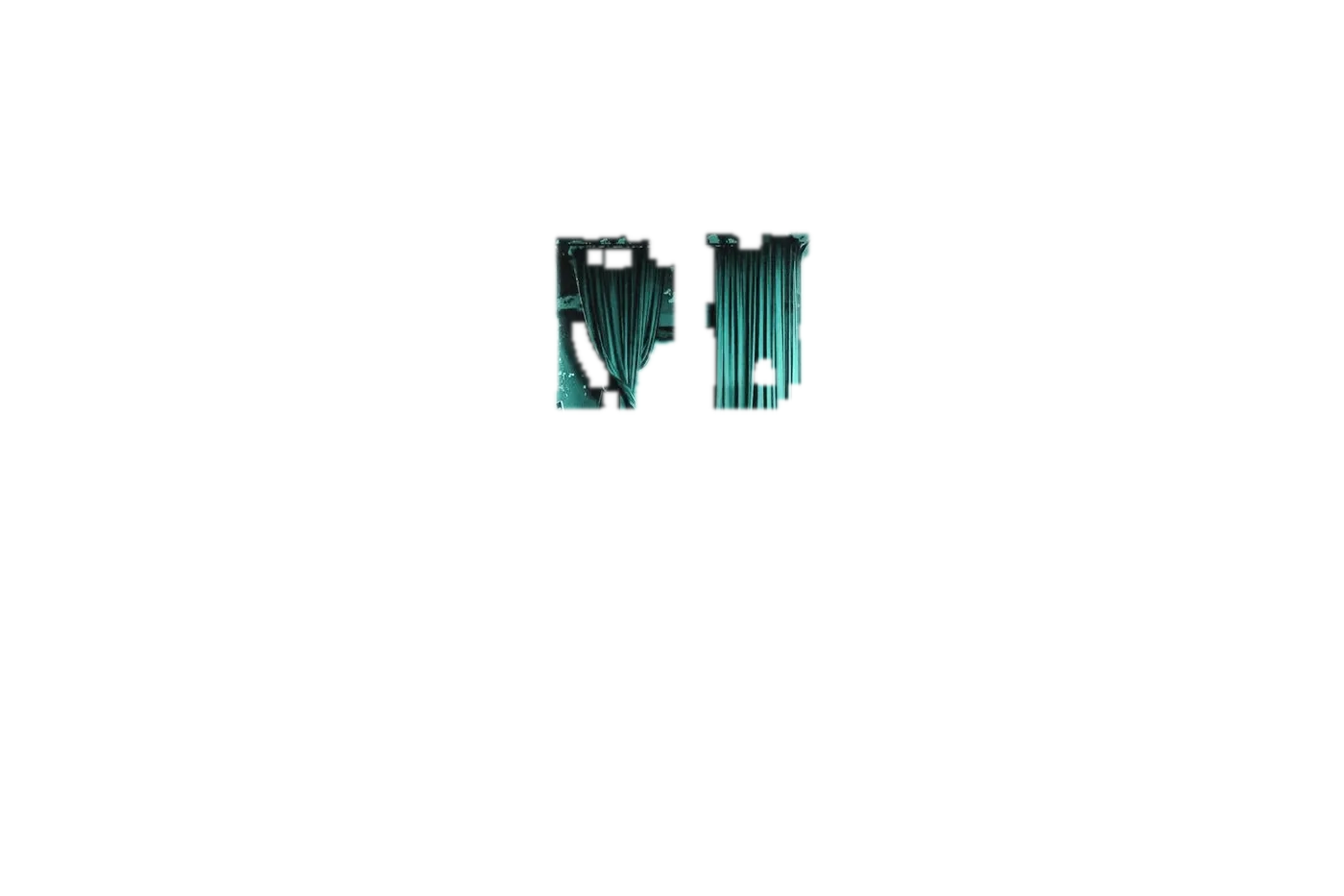
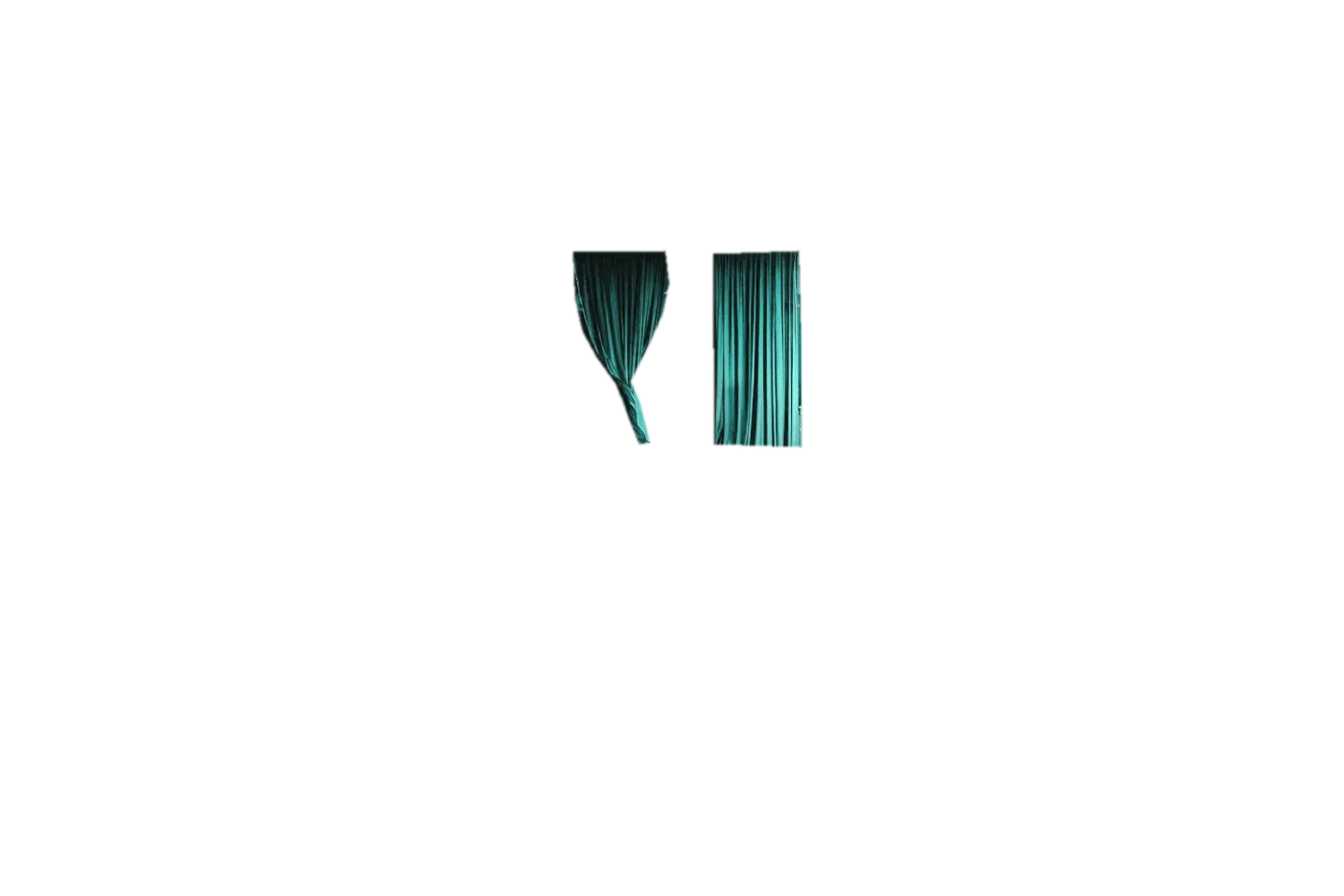
Kolibri-Seite: Masken überarbeitet (Hundebeine, Himmel am Steinhaus, Vorhänge, Teppich, Tapete, Polster), ungenaue Holz-Ebene entfernt
Claude-Session: https://claude.ai/code/session_01BfUFskKUTpTaCydK1EPK3d

Changed region(s): [[0.3993, 0.2487, 0.6143, 0.4973]]

diff --git a/public/hauptseite/referenzen/make-it-real/index.html b/public/hauptseite/referenzen/make-it-real/index.html
@@ -75,7 +75,7 @@ select{width:100%;background:#0b1030;border:1px solid #5666a8;color:white;border
 <section id="idee"><div class="eyebrow">Mehr als eine schöne Idee</div><div class="sectiontop"><h2>Es beginnt mit einem Funken.<br>Es bleibt ein Eindruck.</h2><p>Wie ein Kolibri: voller Energie, unverwechselbar und immer in Bewegung. Genau so darf sich deine nächste Idee anfühlen.</p></div><div class="offers"><article class="offer"><small>01 / KLARHEIT</small><h3>Deine Vision. Auf den Punkt.</h3><p>Was möchtest du verändern? Für wen? Aus einem ersten Gedanken wird eine klare Richtung.</p><span class="tag">IDEE & KONZEPT ↗</span></article><article class="offer"><small>02 / AUSDRUCK</small><h3>Mut zur eigenen Farbe.</h3><p>Farben, Formen und Worte, die zusammenpassen. Ein Auftritt, der deine Persönlichkeit sichtbar macht.</p><span class="tag">DESIGN & IDENTITÄT ↗</span></article><article class="offer"><small>03 / BEWEGUNG</small><h3>Vom Kopf in die Welt.</h3><p>Eine Seite zum Entdecken. Eine Geschichte zum Weitererzählen. Ein nächster Schritt, der sich richtig anfühlt.</p><span class="tag">WEB & ERLEBNIS ↗</span></article></div></section>
 <section class="experience" id="inspiration"><div class="visual"><div class="art-window" id="art" data-tint role="img" aria-label="Kolibri-Farbexperiment"></div><div class="visual-copy"><div class="eyebrow">Ein Motiv. Neue Möglichkeiten.</div><h2 style="margin-top:25px">Weniger gewöhnlich.<br>Mehr du.</h2><p>Ein kleiner Perspektivwechsel kann alles verändern. Das Motiv bleibt ruhig – nur die Farbstimmung wechselt alle zwei Sekunden zwischen Türkis, Violett und Gold. Pausiere den Wechsel oder wähle deine Farbe selbst.</p><div class="mood-bar" style="margin-top:0" role="group" aria-label="Farbstimmung wählen"><div class="palette"><button type="button" class="swatch" style="background:#86e6cf" data-mood="0" aria-label="Türkis" aria-pressed="true"></button><button type="button" class="swatch" style="background:#b9a8ff" data-mood="1" aria-label="Violett" aria-pressed="false"></button><button type="button" class="swatch" style="background:#e8c76a" data-mood="2" aria-label="Gold" aria-pressed="false"></button></div><button type="button" class="cyclebtn" data-cycle aria-pressed="false">Farbwechsel pausieren</button></div><div class="palette-label" data-mood-label>Türkis · Klar. Lebendig. Grenzenlos.</div><p class="mood-note" data-cycle-note></p><p class="sr-only" id="moodStatus" role="status"></p></div></div></section>
 <section id="weg"><div class="eyebrow">Von „Was wäre, wenn?“ zu „Wow.“</div><div class="sectiontop"><h2>Große Ideen.<br>Ein klarer nächster Schritt.</h2></div><div class="steps"><article><small>01 — ENTDECKEN</small><h3>Gib der Idee Raum.</h3><p>Sammle, was dich inspiriert. Ein Bild, ein Gefühl, ein Ziel. Der Anfang muss noch nicht perfekt sein.</p></article><article><small>02 — FORMEN</small><h3>Mach sie greifbar.</h3><p>Wähle eine Richtung und konzentriere dich auf das Wesentliche. Was soll jemand sehen, fühlen und tun?</p></article><article><small>03 — STARTEN</small><h3>Bring sie ins Rollen.</h3><p>Halte deinen ersten konkreten Schritt fest. Aus „irgendwann“ wird ein Projekt mit einer Richtung.</p></article></div></section>
-<section class="makro" id="makro"><div class="eyebrow">Makrofotografie</div><div class="sectiontop"><h2>Farbe im Detail.<br>Nah genug zum Staunen.</h2><p>Ein Federmotiv in Makro: Das Foto bleibt gleich, nur der Farbton wechselt mit der gewählten Stimmung – Türkis, Violett, Gold.</p></div><div class="mk-grid"><figure class="mk big"><div class="mk-img" data-tint-mk role="img" aria-label="Makrofoto einer schillernden Pfauenfeder mit blauem Auge, der Farbton folgt der gewählten Stimmung"></div><figcaption>Makro · Stimmung: <span data-mood-label></span></figcaption></figure><figure class="mk d1"><div class="mk-img" data-tint-mk role="img" aria-label="Detailausschnitt der Feder, Struktur und Glanz"></div><figcaption>Detail · Struktur</figcaption></figure><figure class="mk d2"><div class="mk-img" data-tint-mk role="img" aria-label="Detailausschnitt der Feder, Farbverlauf"></div><figcaption>Detail · Farbverlauf</figcaption></figure></div><p class="mk-note">Foto: Akshat Sharma auf Unsplash (freie Nutzung unter der Unsplash-Lizenz). Platzhalter für eigene Makroaufnahmen von SECRET 58; es zeigt keine Personen und keine Kundenprojekte.</p><div class="ruinen"><h3>Verlassene Orte</h3><p class="sub">Alte Kirchen, Ruinen und aufgegebene Räume, in denen Möbel und Spuren des Lebens zurückgeblieben sind. Die Fotos bleiben, wie sie sind. Nur kleine Details verändern sich ganz sacht, und nur dort, wo es sie im Bild gibt: Gras und Laub wechseln zwischen Sommergrün und Herbst, der Himmel bekommt Morgenrot, einzelne Gegenstände wie Polster, Vorhänge oder Fensterrahmen nehmen eine andere Farbe an, Graffiti wechseln ihre Farben. Stühle, Tische, Bänke, Polster, Teppiche und Tapeten nehmen Farben aus der Palette an (Türkis, Violett, Gold). Fotos ohne solche Details bleiben unverändert. Ein Klick zeigt das Originalfoto groß.</p><div class="ru-grid"><figure class="ru"><button type="button" class="ru-open" aria-label="Foto vergrößern: Verlassene Kirche mit Altar"><img src="ruinen/ruine-01.jpg" alt="Verlassene Kirche mit Altar, Kreuz und Teppich im Licht eines Fensters" loading="lazy" width="1400" height="787"></button><img class="fv" src="ruinen/var/01-teppich-a.webp" alt="" aria-hidden="true" loading="lazy" style="--t:14s;--d:-3s"><img class="fv" src="ruinen/var/01-teppich-b.webp" alt="" aria-hidden="true" loading="lazy" style="--t:14s;--d:-10s"><img class="fv" src="ruinen/var/01-stuehle-a.webp" alt="" aria-hidden="true" loading="lazy" style="--t:16s;--d:-6s"><figcaption><b>Verlassene Kirche mit Altar</b>Foto: Gary Walker-Jones · Unsplash · Spiel: Teppich und Stühle in neuen Farben</figcaption></figure><figure class="ru"><button type="button" class="ru-open" aria-label="Foto vergrößern: Verlassene Holzkirche"><img src="ruinen/ruine-02.jpg" alt="Verlassene Holzkirche mit Türmchen und verwittertem Holz auf einer Wiese" loading="lazy" width="1400" height="933"></button><img class="fv" src="ruinen/var/02-herbst.webp" alt="" aria-hidden="true" loading="lazy" style="--t:14s;--d:-3s"><img class="fv" src="ruinen/var/02-himmel.webp" alt="" aria-hidden="true" loading="lazy" style="--t:17s;--d:-11s"><figcaption><b>Verlassene Holzkirche</b>Foto: Unsplash · Spiel: Gras und Laub im Herbst, Morgenrot im Himmel</figcaption></figure><figure class="ru"><button type="button" class="ru-open" aria-label="Foto vergrößern: Alte Steinkirche mit Rundfenster"><img src="ruinen/ruine-03.jpg" alt="Alte Steinkirche mit Spitzbogenfenster und rundem Fenster" loading="lazy" width="1400" height="933"></button><img class="fv" src="ruinen/var/03-himmel.webp" alt="" aria-hidden="true" loading="lazy" style="--t:15s;--d:-4s"><figcaption><b>Alte Steinkirche mit Rundfenster</b>Foto: Unsplash · Spiel: Himmel im Morgenrot</figcaption></figure><figure class="ru"><button type="button" class="ru-open" aria-label="Foto vergrößern: Verlassene Kirche, Langschiff"><img src="ruinen/ruine-04.jpg" alt="Langschiff einer verlassenen Kirche mit Säulen und Bogenfenstern" loading="lazy" width="1400" height="933"></button><img class="fv" src="ruinen/var/04-licht.webp" alt="" aria-hidden="true" loading="lazy" style="--t:9s;--d:-2s"><figcaption><b>Verlassene Kirche, Langschiff</b>Foto: Unsplash · Spiel: Licht in den Kirchenfenstern</figcaption></figure><figure class="ru"><button type="button" class="ru-open" aria-label="Foto vergrößern: Kirchenruine mit Backsteinboden"><img src="ruinen/ruine-05.jpg" alt="Kirchenruine mit Bögen, Backsteinboden und Pflanzen" loading="lazy" width="1400" height="933"></button><img class="fv" src="ruinen/var/05-graffiti.webp" alt="" aria-hidden="true" loading="lazy" style="--t:13s;--d:-5s"><figcaption><b>Kirchenruine mit Backsteinboden</b>Foto: Unsplash · Spiel: Graffiti in neuen Farben</figcaption></figure><figure class="ru"><button type="button" class="ru-open" aria-label="Foto vergrößern: Gewölbte Ruinenhalle"><img src="ruinen/ruine-06.jpg" alt="Hohe gewölbte Halle einer Ruine mit großem Spitzbogenfenster" loading="lazy" width="1400" height="933"></button><figcaption><b>Gewölbte Ruinenhalle</b>Foto: Unsplash</figcaption></figure><figure class="ru"><button type="button" class="ru-open" aria-label="Foto vergrößern: Verlassener Theatersaal"><img src="ruinen/ruine-07.jpg" alt="Leerer Theatersaal mit Bühne, Vorhängen und Bogenfenstern in rotem Licht" loading="lazy" width="1400" height="931"></button><img class="fv" src="ruinen/var/07-vorhang.webp" alt="" aria-hidden="true" loading="lazy" style="--t:13s;--d:-5s"><figcaption><b>Verlassener Theatersaal</b>Foto: Unsplash · Spiel: Vorhang in neuer Farbe</figcaption></figure><figure class="ru"><button type="button" class="ru-open" aria-label="Foto vergrößern: Ruine mit eingestürztem Dach"><img src="ruinen/ruine-08.jpg" alt="Ruine mit eingestürztem Dach, Licht fällt durch die Balken, Pflanzen wachsen im Inneren" loading="lazy" width="1400" height="933"></button><img class="fv" src="ruinen/var/08-herbst.webp" alt="" aria-hidden="true" loading="lazy" style="--t:15s;--d:-6s"><figcaption><b>Ruine mit eingestürztem Dach</b>Foto: Inna Nasonova · Unsplash · Spiel: Pflanzen im Herbst</figcaption></figure><figure class="ru"><button type="button" class="ru-open" aria-label="Foto vergrößern: Verlassener Saal mit Möbeln"><img src="ruinen/ruine-09.jpg" alt="Verlassener Saal mit umgestürzten Stühlen, Tischen und zersplittertem Glas" loading="lazy" width="1400" height="933"></button><img class="fv" src="ruinen/var/09-polster.webp" alt="" aria-hidden="true" loading="lazy" style="--t:13s;--d:-2s"><img class="fv" src="ruinen/var/09-holz-a.webp" alt="" aria-hidden="true" loading="lazy" style="--t:15s;--d:-9s"><figcaption><b>Verlassener Saal mit Möbeln</b>Foto: Intricate Explorer · Unsplash · Spiel: Polster, Sofa und Holzstühle in neuen Farben</figcaption></figure><figure class="ru"><button type="button" class="ru-open" aria-label="Foto vergrößern: Verfallener Raum mit Holzmöbeln"><img src="ruinen/ruine-10.jpg" alt="Verlassener Raum mit zerfallenden Wänden und Holzmöbeln" loading="lazy" width="1400" height="931"></button><img class="fv" src="ruinen/var/10-moebel-a.webp" alt="" aria-hidden="true" loading="lazy" style="--t:14s;--d:-2s"><img class="fv" src="ruinen/var/10-moebel-b.webp" alt="" aria-hidden="true" loading="lazy" style="--t:14s;--d:-9s"><figcaption><b>Verfallener Raum mit Holzmöbeln</b>Foto: Ed Stone · Unsplash · Spiel: Tisch und Bank in neuen Farben</figcaption></figure><figure class="ru"><button type="button" class="ru-open" aria-label="Foto vergrößern: Bogenfenster im verlassenen Raum"><img src="ruinen/ruine-11.jpg" alt="Hohes Bogenfenster in einem verfallenen Raum mit Regal und Tisch" loading="lazy" width="1400" height="932"></button><img class="fv" src="ruinen/var/11-herbst.webp" alt="" aria-hidden="true" loading="lazy" style="--t:15s;--d:-7s"><figcaption><b>Bogenfenster im verlassenen Raum</b>Foto: Peter Herrmann · Unsplash · Spiel: Laub vor dem Fenster im Herbst</figcaption></figure><figure class="ru"><button type="button" class="ru-open" aria-label="Foto vergrößern: Offene Türen und Schutt"><img src="ruinen/ruine-12.jpg" alt="Verfallenes Gebäude mit offenen Türen und Schutt auf dem Boden" loading="lazy" width="1400" height="934"></button><img class="fv" src="ruinen/var/12-tapete-a.webp" alt="" aria-hidden="true" loading="lazy" style="--t:16s;--d:-2s"><img class="fv" src="ruinen/var/12-tapete-b.webp" alt="" aria-hidden="true" loading="lazy" style="--t:16s;--d:-10s"><figcaption><b>Offene Türen und Schutt</b>Foto: Ries Bosch · Unsplash · Spiel: Tapete in neuen Farben</figcaption></figure><figure class="ru"><button type="button" class="ru-open" aria-label="Foto vergrößern: Sonnenlicht und alte Matratzen"><img src="ruinen/ruine-13.jpg" alt="Sonnendurchfluteter verlassener Raum mit alten Matratzen und zerbrochenen Fenstern" loading="lazy" width="1400" height="933"></button><img class="fv" src="ruinen/var/13-sessel-a.webp" alt="" aria-hidden="true" loading="lazy" style="--t:15s;--d:-4s"><img class="fv" src="ruinen/var/13-matratze-a.webp" alt="" aria-hidden="true" loading="lazy" style="--t:17s;--d:-11s"><figcaption><b>Sonnenlicht und alte Matratzen</b>Foto: X F · Unsplash · Spiel: Sessel und Matratzen in neuen Farben</figcaption></figure><figure class="ru"><button type="button" class="ru-open" aria-label="Foto vergrößern: Blick durch eine offene Tür"><img src="ruinen/ruine-14.jpg" alt="Dunkler Raum mit Blick durch eine offene Tür auf einen Stuhl" loading="lazy" width="1400" height="933"></button><img class="fv" src="ruinen/var/14-graffiti.webp" alt="" aria-hidden="true" loading="lazy" style="--t:13s;--d:-6s"><figcaption><b>Blick durch eine offene Tür</b>Foto: Unsplash · Spiel: Graffiti in neuen Farben</figcaption></figure><figure class="ru"><button type="button" class="ru-open" aria-label="Foto vergrößern: Rotes Zimmer mit Fenstern"><img src="ruinen/ruine-15.jpg" alt="Verlassenes Zimmer mit roten Wänden und zwei Fenstern" loading="lazy" width="1400" height="933"></button><img class="fv" src="ruinen/var/15-rahmen.webp" alt="" aria-hidden="true" loading="lazy" style="--t:13s;--d:-4s"><figcaption><b>Rotes Zimmer mit Fenstern</b>Foto: Unsplash · Spiel: Fensterrahmen in neuer Farbe</figcaption></figure><figure class="ru"><button type="button" class="ru-open" aria-label="Foto vergrößern: Sonnenlicht im leeren Raum"><img src="ruinen/ruine-16.jpg" alt="Leerer verfallener Raum, warmes Licht fällt durch die Fenster" loading="lazy" width="1400" height="933"></button><figcaption><b>Sonnenlicht im leeren Raum</b>Foto: Unsplash</figcaption></figure><figure class="ru"><button type="button" class="ru-open" aria-label="Foto vergrößern: Verfallene Fabrikhalle mit Dachlicht"><img src="ruinen/ruine-17.jpg" alt="Verfallene Fabrikhalle mit Stahlträgern und Licht durch das Dach" loading="lazy" width="1400" height="933"></button><figcaption><b>Verfallene Fabrikhalle mit Dachlicht</b>Foto: Unsplash</figcaption></figure><figure class="ru"><button type="button" class="ru-open" aria-label="Foto vergrößern: Endlose Säulenhalle"><img src="ruinen/ruine-18.jpg" alt="Lange Halle mit Holzsäulen in einem verlassenen Gebäude" loading="lazy" width="1400" height="933"></button><figcaption><b>Endlose Säulenhalle</b>Foto: Unsplash</figcaption></figure><figure class="ru"><button type="button" class="ru-open" aria-label="Foto vergrößern: Überflutete Stahlhalle"><img src="ruinen/ruine-19.jpg" alt="Ausgebrannte Stahlhalle, Wasser spiegelt das Gerüst" loading="lazy" width="1400" height="933"></button><figcaption><b>Überflutete Stahlhalle</b>Foto: Unsplash</figcaption></figure><figure class="ru"><button type="button" class="ru-open" aria-label="Foto vergrößern: Halle, die die Natur zurückholt"><img src="ruinen/ruine-20.jpg" alt="Verfallene Halle mit Bogenfenstern, Pflanzen und Sonnenstrahlen" loading="lazy" width="1400" height="933"></button><img class="fv" src="ruinen/var/20-herbst.webp" alt="" aria-hidden="true" loading="lazy" style="--t:16s;--d:-8s"><img class="fv" src="ruinen/var/20-graffiti.webp" alt="" aria-hidden="true" loading="lazy" style="--t:14s;--d:-2s"><figcaption><b>Halle, die die Natur zurückholt</b>Foto: Unsplash · Spiel: Laub im Herbst, Graffiti in neuen Farben</figcaption></figure></div><p class="mk-note">Alle Fotos stammen von Unsplash und dürfen dort unter der Unsplash-Lizenz kostenlos genutzt werden; bei den Bildern ohne Namen steht die Fotografin oder der Fotograf auf der jeweiligen Unsplash-Seite. Sie sind Beispiele für die Bildwelt dieses Designkonzepts. Die Orte sind nicht als öffentlich zugänglich zu verstehen, bitte nicht betreten.</p></div>
+<section class="makro" id="makro"><div class="eyebrow">Makrofotografie</div><div class="sectiontop"><h2>Farbe im Detail.<br>Nah genug zum Staunen.</h2><p>Ein Federmotiv in Makro: Das Foto bleibt gleich, nur der Farbton wechselt mit der gewählten Stimmung – Türkis, Violett, Gold.</p></div><div class="mk-grid"><figure class="mk big"><div class="mk-img" data-tint-mk role="img" aria-label="Makrofoto einer schillernden Pfauenfeder mit blauem Auge, der Farbton folgt der gewählten Stimmung"></div><figcaption>Makro · Stimmung: <span data-mood-label></span></figcaption></figure><figure class="mk d1"><div class="mk-img" data-tint-mk role="img" aria-label="Detailausschnitt der Feder, Struktur und Glanz"></div><figcaption>Detail · Struktur</figcaption></figure><figure class="mk d2"><div class="mk-img" data-tint-mk role="img" aria-label="Detailausschnitt der Feder, Farbverlauf"></div><figcaption>Detail · Farbverlauf</figcaption></figure></div><p class="mk-note">Foto: Akshat Sharma auf Unsplash (freie Nutzung unter der Unsplash-Lizenz). Platzhalter für eigene Makroaufnahmen von SECRET 58; es zeigt keine Personen und keine Kundenprojekte.</p><div class="ruinen"><h3>Verlassene Orte</h3><p class="sub">Alte Kirchen, Ruinen und aufgegebene Räume, in denen Möbel und Spuren des Lebens zurückgeblieben sind. Die Fotos bleiben, wie sie sind. Nur kleine Details verändern sich ganz sacht, und nur dort, wo es sie im Bild gibt: Gras und Laub wechseln zwischen Sommergrün und Herbst, der Himmel bekommt Morgenrot, einzelne Gegenstände wie Polster, Vorhänge oder Fensterrahmen nehmen eine andere Farbe an, Graffiti wechseln ihre Farben. Stühle, Tische, Bänke, Polster, Vorhänge, Teppiche und Tapeten nehmen Farben aus der Palette an (Türkis, Violett, Gold). Fotos ohne solche Details bleiben unverändert. Ein Klick zeigt das Originalfoto groß.</p><div class="ru-grid"><figure class="ru"><button type="button" class="ru-open" aria-label="Foto vergrößern: Verlassene Kirche mit Altar"><img src="ruinen/ruine-01.jpg" alt="Verlassene Kirche mit Altar, Kreuz und Teppich im Licht eines Fensters" loading="lazy" width="1400" height="787"></button><img class="fv" src="ruinen/var/01-teppich-a.webp" alt="" aria-hidden="true" loading="lazy" style="--t:14s;--d:-3s"><img class="fv" src="ruinen/var/01-teppich-b.webp" alt="" aria-hidden="true" loading="lazy" style="--t:14s;--d:-10s"><img class="fv" src="ruinen/var/01-stuehle-a.webp" alt="" aria-hidden="true" loading="lazy" style="--t:16s;--d:-6s"><figcaption><b>Verlassene Kirche mit Altar</b>Foto: Gary Walker-Jones · Unsplash · Spiel: Teppich und Stühle in neuen Farben</figcaption></figure><figure class="ru"><button type="button" class="ru-open" aria-label="Foto vergrößern: Verlassene Holzkirche"><img src="ruinen/ruine-02.jpg" alt="Verlassene Holzkirche mit Türmchen und verwittertem Holz auf einer Wiese" loading="lazy" width="1400" height="933"></button><img class="fv" src="ruinen/var/02-herbst.webp" alt="" aria-hidden="true" loading="lazy" style="--t:14s;--d:-3s"><img class="fv" src="ruinen/var/02-himmel.webp" alt="" aria-hidden="true" loading="lazy" style="--t:17s;--d:-11s"><figcaption><b>Verlassene Holzkirche</b>Foto: Unsplash · Spiel: Gras und Laub im Herbst, Morgenrot im Himmel</figcaption></figure><figure class="ru"><button type="button" class="ru-open" aria-label="Foto vergrößern: Alte Steinkirche mit Rundfenster"><img src="ruinen/ruine-03.jpg" alt="Alte Steinkirche mit Spitzbogenfenster und rundem Fenster" loading="lazy" width="1400" height="933"></button><img class="fv" src="ruinen/var/03-himmel.webp" alt="" aria-hidden="true" loading="lazy" style="--t:15s;--d:-4s"><figcaption><b>Alte Steinkirche mit Rundfenster</b>Foto: Unsplash · Spiel: Himmel im Morgenrot</figcaption></figure><figure class="ru"><button type="button" class="ru-open" aria-label="Foto vergrößern: Verlassene Kirche, Langschiff"><img src="ruinen/ruine-04.jpg" alt="Langschiff einer verlassenen Kirche mit Säulen und Bogenfenstern" loading="lazy" width="1400" height="933"></button><img class="fv" src="ruinen/var/04-licht.webp" alt="" aria-hidden="true" loading="lazy" style="--t:9s;--d:-2s"><figcaption><b>Verlassene Kirche, Langschiff</b>Foto: Unsplash · Spiel: Licht in den Kirchenfenstern</figcaption></figure><figure class="ru"><button type="button" class="ru-open" aria-label="Foto vergrößern: Kirchenruine mit Backsteinboden"><img src="ruinen/ruine-05.jpg" alt="Kirchenruine mit Bögen, Backsteinboden und Pflanzen" loading="lazy" width="1400" height="933"></button><img class="fv" src="ruinen/var/05-graffiti.webp" alt="" aria-hidden="true" loading="lazy" style="--t:13s;--d:-5s"><figcaption><b>Kirchenruine mit Backsteinboden</b>Foto: Unsplash · Spiel: Graffiti in neuen Farben</figcaption></figure><figure class="ru"><button type="button" class="ru-open" aria-label="Foto vergrößern: Gewölbte Ruinenhalle"><img src="ruinen/ruine-06.jpg" alt="Hohe gewölbte Halle einer Ruine mit großem Spitzbogenfenster" loading="lazy" width="1400" height="933"></button><figcaption><b>Gewölbte Ruinenhalle</b>Foto: Unsplash</figcaption></figure><figure class="ru"><button type="button" class="ru-open" aria-label="Foto vergrößern: Verlassener Theatersaal"><img src="ruinen/ruine-07.jpg" alt="Leerer Theatersaal mit Bühne, Vorhängen und Bogenfenstern in rotem Licht" loading="lazy" width="1400" height="931"></button><img class="fv" src="ruinen/var/07-vorhang.webp" alt="" aria-hidden="true" loading="lazy" style="--t:13s;--d:-5s"><figcaption><b>Verlassener Theatersaal</b>Foto: Unsplash · Spiel: Vorhang in neuer Farbe</figcaption></figure><figure class="ru"><button type="button" class="ru-open" aria-label="Foto vergrößern: Ruine mit eingestürztem Dach"><img src="ruinen/ruine-08.jpg" alt="Ruine mit eingestürztem Dach, Licht fällt durch die Balken, Pflanzen wachsen im Inneren" loading="lazy" width="1400" height="933"></button><img class="fv" src="ruinen/var/08-herbst.webp" alt="" aria-hidden="true" loading="lazy" style="--t:15s;--d:-6s"><figcaption><b>Ruine mit eingestürztem Dach</b>Foto: Inna Nasonova · Unsplash · Spiel: Pflanzen im Herbst</figcaption></figure><figure class="ru"><button type="button" class="ru-open" aria-label="Foto vergrößern: Verlassener Saal mit Möbeln"><img src="ruinen/ruine-09.jpg" alt="Verlassener Saal mit umgestürzten Stühlen, Tischen und zersplittertem Glas" loading="lazy" width="1400" height="933"></button><img class="fv" src="ruinen/var/09-polster.webp" alt="" aria-hidden="true" loading="lazy" style="--t:13s;--d:-2s"><figcaption><b>Verlassener Saal mit Möbeln</b>Foto: Intricate Explorer · Unsplash · Spiel: Polster und Sofa in neuen Farben</figcaption></figure><figure class="ru"><button type="button" class="ru-open" aria-label="Foto vergrößern: Verfallener Raum mit Holzmöbeln"><img src="ruinen/ruine-10.jpg" alt="Verlassener Raum mit zerfallenden Wänden und Holzmöbeln" loading="lazy" width="1400" height="931"></button><img class="fv" src="ruinen/var/10-moebel-a.webp" alt="" aria-hidden="true" loading="lazy" style="--t:14s;--d:-2s"><img class="fv" src="ruinen/var/10-moebel-b.webp" alt="" aria-hidden="true" loading="lazy" style="--t:14s;--d:-9s"><figcaption><b>Verfallener Raum mit Holzmöbeln</b>Foto: Ed Stone · Unsplash · Spiel: Tisch und Bank in neuen Farben</figcaption></figure><figure class="ru"><button type="button" class="ru-open" aria-label="Foto vergrößern: Bogenfenster im verlassenen Raum"><img src="ruinen/ruine-11.jpg" alt="Hohes Bogenfenster in einem verfallenen Raum mit Regal und Tisch" loading="lazy" width="1400" height="932"></button><img class="fv" src="ruinen/var/11-herbst.webp" alt="" aria-hidden="true" loading="lazy" style="--t:15s;--d:-7s"><figcaption><b>Bogenfenster im verlassenen Raum</b>Foto: Peter Herrmann · Unsplash · Spiel: Laub vor dem Fenster im Herbst</figcaption></figure><figure class="ru"><button type="button" class="ru-open" aria-label="Foto vergrößern: Offene Türen und Schutt"><img src="ruinen/ruine-12.jpg" alt="Verfallenes Gebäude mit offenen Türen und Schutt auf dem Boden" loading="lazy" width="1400" height="934"></button><img class="fv" src="ruinen/var/12-tapete-a.webp" alt="" aria-hidden="true" loading="lazy" style="--t:16s;--d:-2s"><img class="fv" src="ruinen/var/12-tapete-b.webp" alt="" aria-hidden="true" loading="lazy" style="--t:16s;--d:-10s"><figcaption><b>Offene Türen und Schutt</b>Foto: Ries Bosch · Unsplash · Spiel: Tapete in neuen Farben</figcaption></figure><figure class="ru"><button type="button" class="ru-open" aria-label="Foto vergrößern: Sonnenlicht und alte Matratzen"><img src="ruinen/ruine-13.jpg" alt="Sonnendurchfluteter verlassener Raum mit alten Matratzen und zerbrochenen Fenstern" loading="lazy" width="1400" height="933"></button><img class="fv" src="ruinen/var/13-sessel-a.webp" alt="" aria-hidden="true" loading="lazy" style="--t:15s;--d:-4s"><img class="fv" src="ruinen/var/13-matratze-a.webp" alt="" aria-hidden="true" loading="lazy" style="--t:17s;--d:-11s"><figcaption><b>Sonnenlicht und alte Matratzen</b>Foto: X F · Unsplash · Spiel: Sessel und Matratzen in neuen Farben</figcaption></figure><figure class="ru"><button type="button" class="ru-open" aria-label="Foto vergrößern: Blick durch eine offene Tür"><img src="ruinen/ruine-14.jpg" alt="Dunkler Raum mit Blick durch eine offene Tür auf einen Stuhl" loading="lazy" width="1400" height="933"></button><img class="fv" src="ruinen/var/14-graffiti.webp" alt="" aria-hidden="true" loading="lazy" style="--t:13s;--d:-6s"><figcaption><b>Blick durch eine offene Tür</b>Foto: Unsplash · Spiel: Graffiti in neuen Farben</figcaption></figure><figure class="ru"><button type="button" class="ru-open" aria-label="Foto vergrößern: Rotes Zimmer mit Fenstern"><img src="ruinen/ruine-15.jpg" alt="Verlassenes Zimmer mit roten Wänden und zwei Fenstern" loading="lazy" width="1400" height="933"></button><img class="fv" src="ruinen/var/15-rahmen.webp" alt="" aria-hidden="true" loading="lazy" style="--t:13s;--d:-4s"><figcaption><b>Rotes Zimmer mit Fenstern</b>Foto: Unsplash · Spiel: Fensterfarbe wechselt</figcaption></figure><figure class="ru"><button type="button" class="ru-open" aria-label="Foto vergrößern: Sonnenlicht im leeren Raum"><img src="ruinen/ruine-16.jpg" alt="Leerer verfallener Raum, warmes Licht fällt durch die Fenster" loading="lazy" width="1400" height="933"></button><figcaption><b>Sonnenlicht im leeren Raum</b>Foto: Unsplash</figcaption></figure><figure class="ru"><button type="button" class="ru-open" aria-label="Foto vergrößern: Verfallene Fabrikhalle mit Dachlicht"><img src="ruinen/ruine-17.jpg" alt="Verfallene Fabrikhalle mit Stahlträgern und Licht durch das Dach" loading="lazy" width="1400" height="933"></button><figcaption><b>Verfallene Fabrikhalle mit Dachlicht</b>Foto: Unsplash</figcaption></figure><figure class="ru"><button type="button" class="ru-open" aria-label="Foto vergrößern: Endlose Säulenhalle"><img src="ruinen/ruine-18.jpg" alt="Lange Halle mit Holzsäulen in einem verlassenen Gebäude" loading="lazy" width="1400" height="933"></button><figcaption><b>Endlose Säulenhalle</b>Foto: Unsplash</figcaption></figure><figure class="ru"><button type="button" class="ru-open" aria-label="Foto vergrößern: Überflutete Stahlhalle"><img src="ruinen/ruine-19.jpg" alt="Ausgebrannte Stahlhalle, Wasser spiegelt das Gerüst" loading="lazy" width="1400" height="933"></button><figcaption><b>Überflutete Stahlhalle</b>Foto: Unsplash</figcaption></figure><figure class="ru"><button type="button" class="ru-open" aria-label="Foto vergrößern: Halle, die die Natur zurückholt"><img src="ruinen/ruine-20.jpg" alt="Verfallene Halle mit Bogenfenstern, Pflanzen und Sonnenstrahlen" loading="lazy" width="1400" height="933"></button><img class="fv" src="ruinen/var/20-herbst.webp" alt="" aria-hidden="true" loading="lazy" style="--t:16s;--d:-8s"><img class="fv" src="ruinen/var/20-graffiti.webp" alt="" aria-hidden="true" loading="lazy" style="--t:14s;--d:-2s"><figcaption><b>Halle, die die Natur zurückholt</b>Foto: Unsplash · Spiel: Laub im Herbst, Graffiti in neuen Farben</figcaption></figure></div><p class="mk-note">Alle Fotos stammen von Unsplash und dürfen dort unter der Unsplash-Lizenz kostenlos genutzt werden; bei den Bildern ohne Namen steht die Fotografin oder der Fotograf auf der jeweiligen Unsplash-Seite. Sie sind Beispiele für die Bildwelt dieses Designkonzepts. Die Orte sind nicht als öffentlich zugänglich zu verstehen, bitte nicht betreten.</p></div>
 <dialog id="ruDlg" aria-label="Foto im Vollbild"><div class="ru-st" id="ruSt"><img id="ruImg" alt=""></div><span id="ruCount"></span><button type="button" class="ru-x" id="ruX" aria-label="Schließen">×</button><button type="button" class="ru-nav" id="ruPrev" aria-label="Vorheriges Foto">‹</button><button type="button" class="ru-nav" id="ruNext" aria-label="Nächstes Foto">›</button><p id="ruCap"></p></dialog>
 </section>
 <section class="werk" id="werkstatt"><div class="eyebrow">Projektwerkstatt</div><div class="sectiontop"><h2>Aus einer Idee wird<br>ein Plan.</h2><p>Halte Projekt, Ideen und Aufgaben fest – direkt hier in deinem Browser.</p></div>
